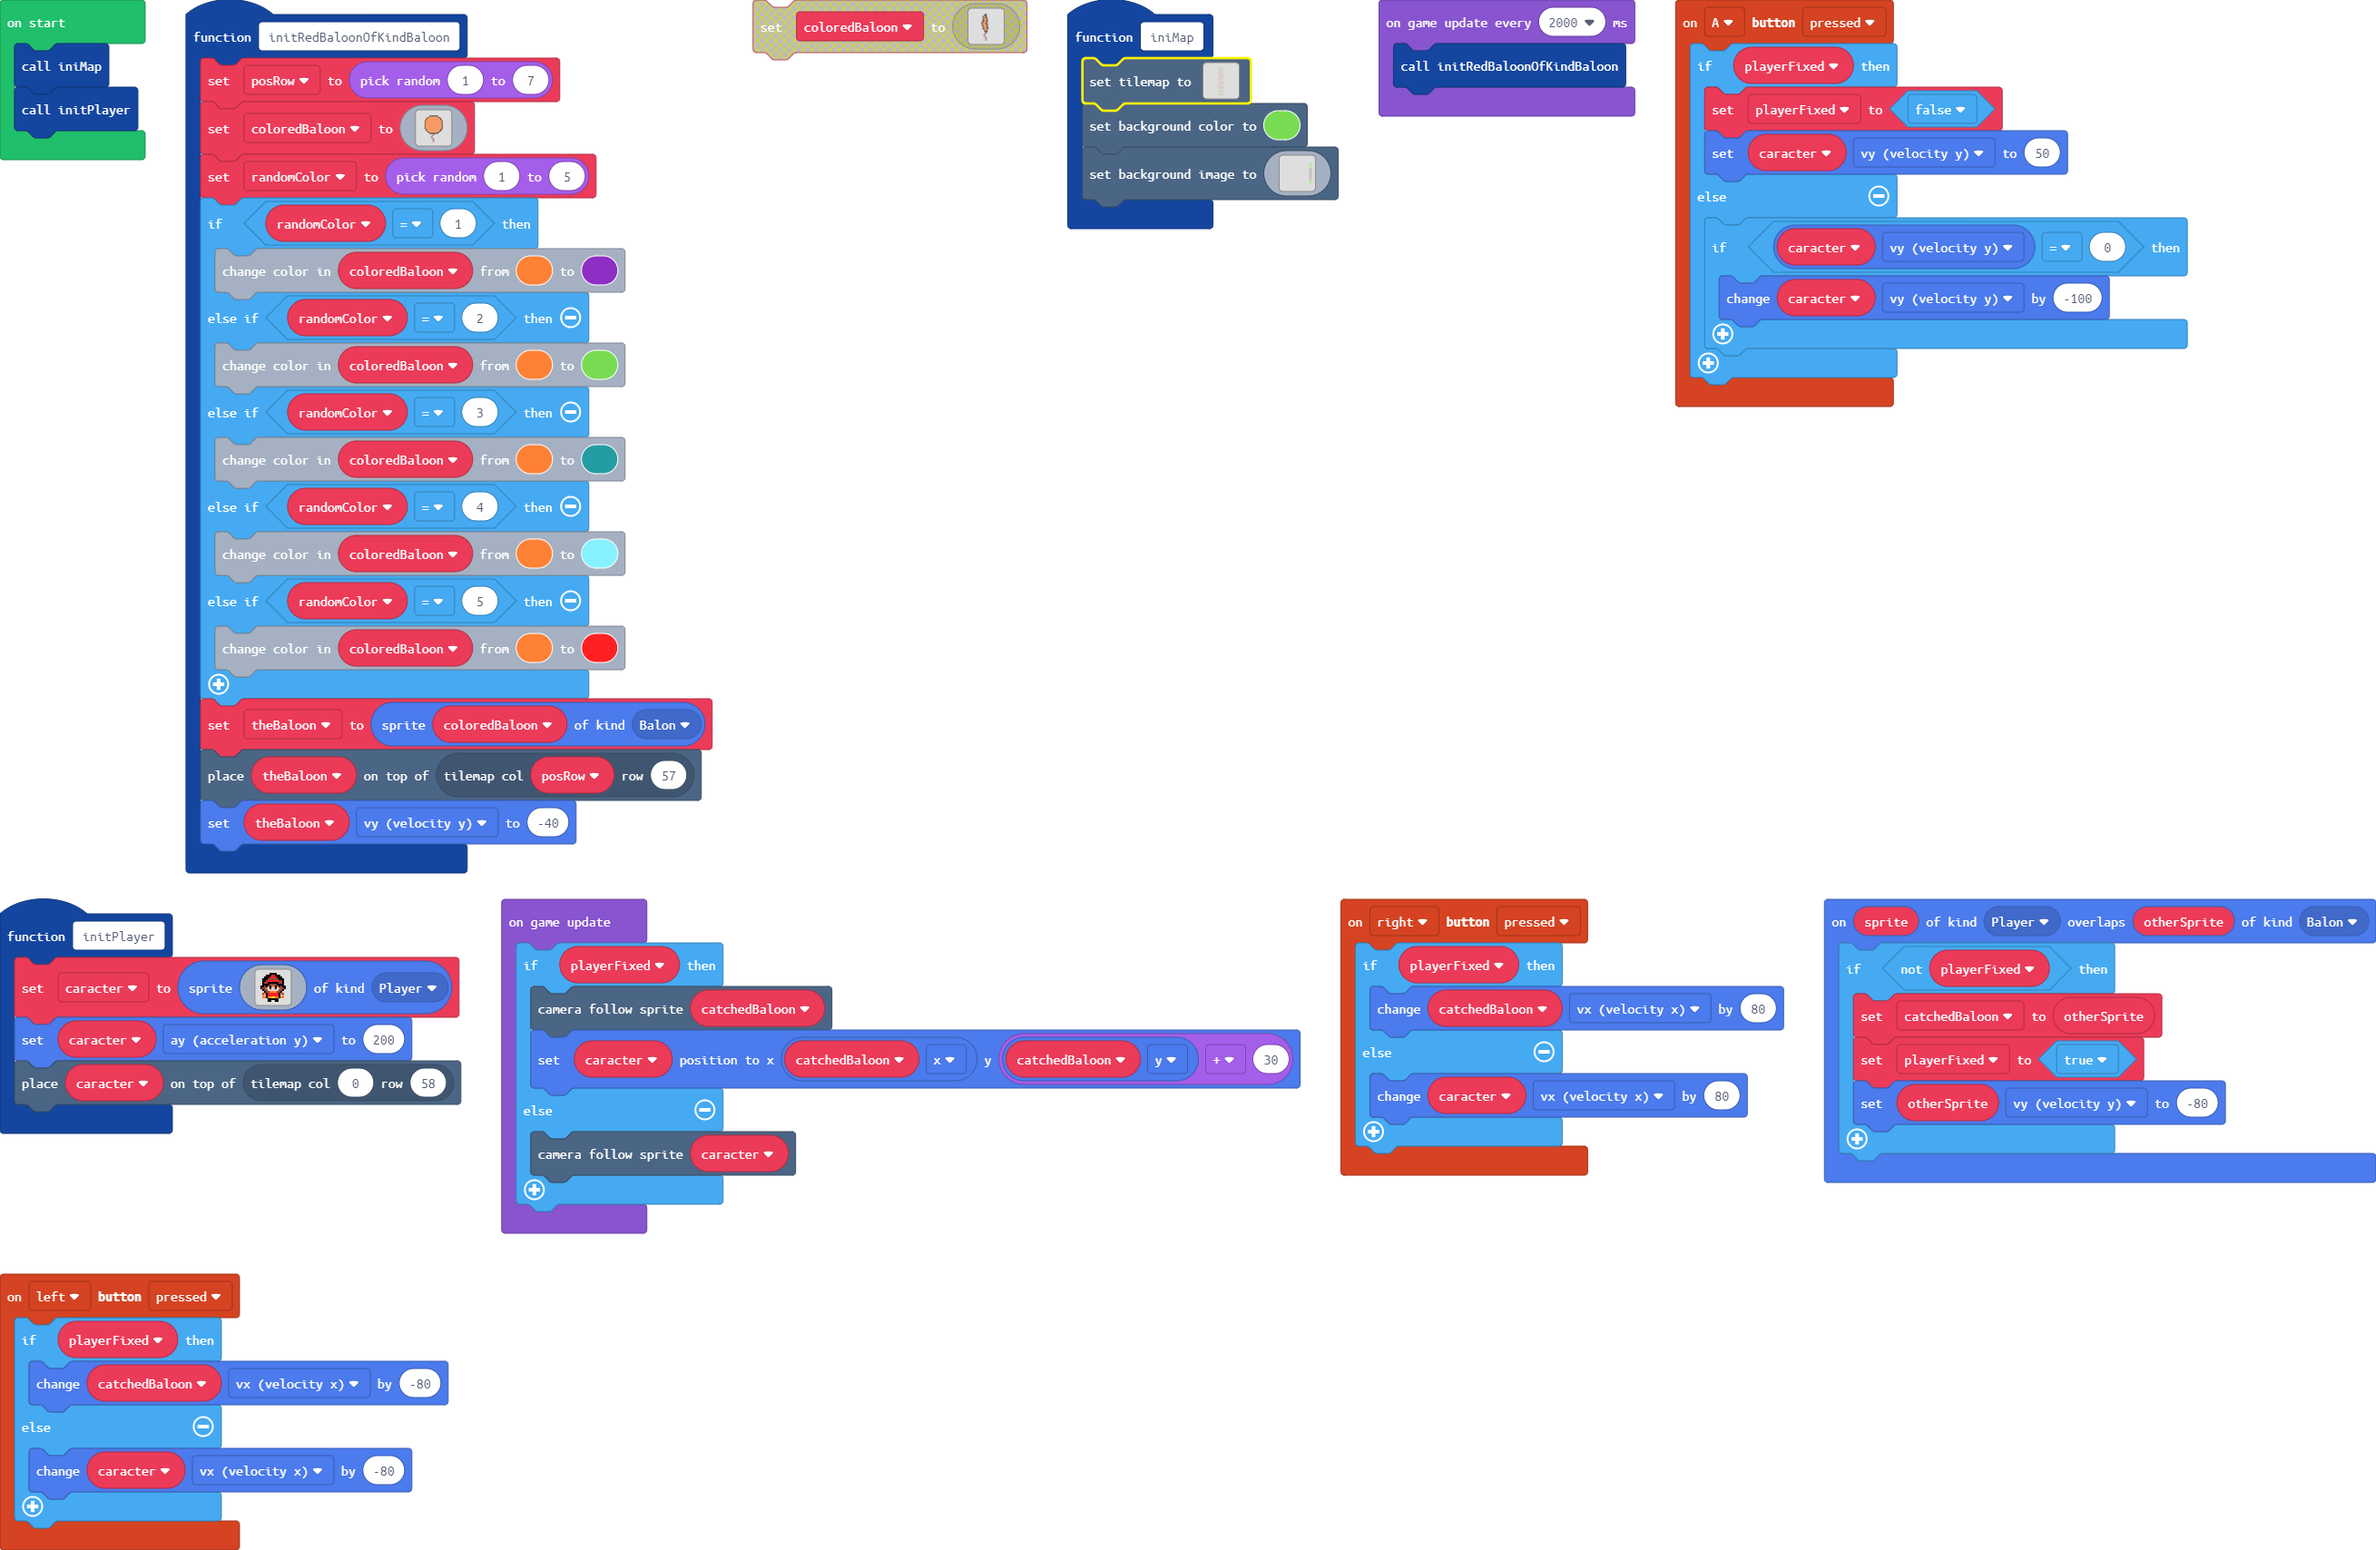
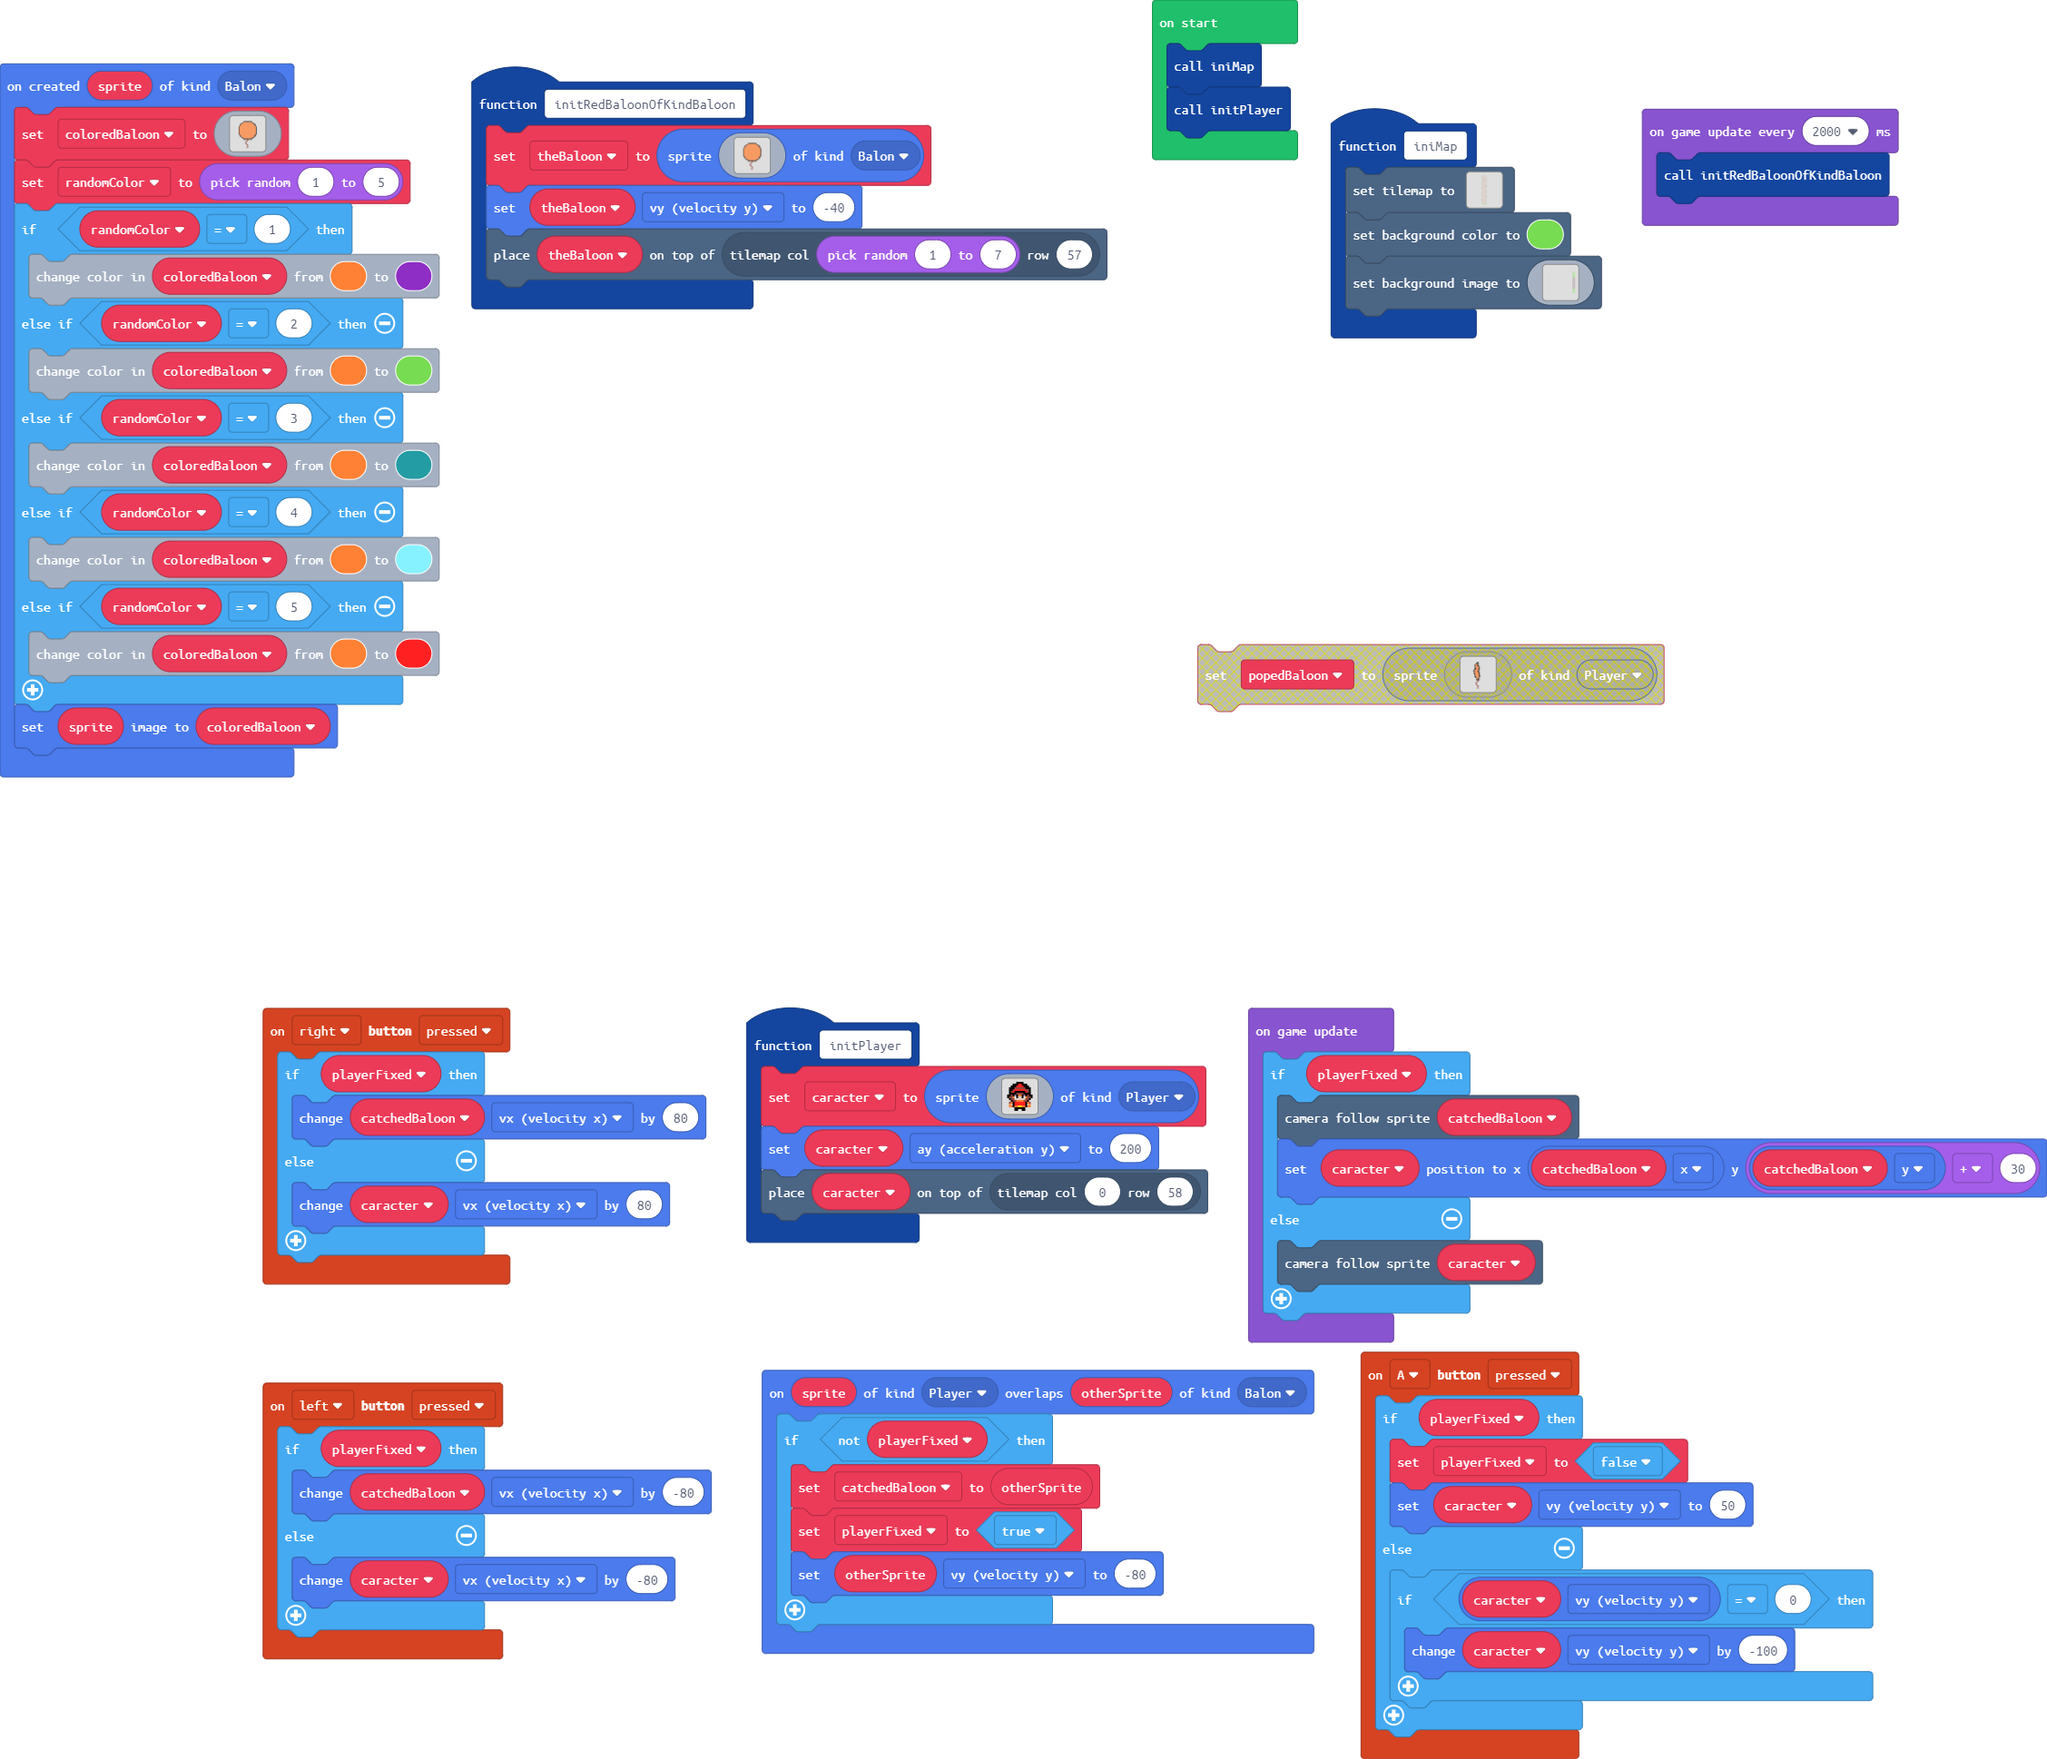
simplified code

diff --git a/main.ts b/main.ts
@@ -24,8 +24,7 @@ namespace myTiles {
 `
 }
 function initRedBaloonOfKindBaloon () {
-    posRow = Math.randomRange(1, 7)
-    coloredBaloon = img`
+    theBaloon = sprites.create(img`
 . . . . . . . . . . . . . . . . . . . . . . . . . 
 . . . . . . . . . . . . . . . . . . . . . . . . . 
 . . . . . . . . . . . . . . . . . . . . . . . . . 
@@ -66,22 +65,9 @@ f 4 4 4 4 4 4 4 4 4 4 4 4 4 4 4 4 4 4 4 4 4 4 4 f
 . . . . . . . . . . . . e . . . . . . . . . . . . 
 . . . . . . . . . . . e . . . . . . . . . . . . . 
 . . . . . . . . . . . . e . . . . . . . . . . . . 
-`
-    randomColor = Math.randomRange(1, 5)
-    if (randomColor == 1) {
-        coloredBaloon.replace(4, 10)
-    } else if (randomColor == 2) {
-        coloredBaloon.replace(4, 7)
-    } else if (randomColor == 3) {
-        coloredBaloon.replace(4, 6)
-    } else if (randomColor == 4) {
-        coloredBaloon.replace(4, 9)
-    } else if (randomColor == 5) {
-        coloredBaloon.replace(4, 2)
-    }
-    theBaloon = sprites.create(coloredBaloon, SpriteKind.Balon)
-    tiles.placeOnTile(theBaloon, tiles.getTileLocation(posRow, 57))
+`, SpriteKind.Balon)
     theBaloon.vy = -40
+    tiles.placeOnTile(theBaloon, tiles.getTileLocation(Math.randomRange(1, 7), 57))
 }
 function iniMap () {
     tiles.setTilemap(tiles.createTilemap(
@@ -314,6 +300,63 @@ controller.A.onEvent(ControllerButtonEvent.Pressed, function () {
         }
     }
 })
+sprites.onCreated(SpriteKind.Balon, function (sprite) {
+    coloredBaloon = img`
+. . . . . . . . . . . . . . . . . . . . . . . . . 
+. . . . . . . . . . . . . . . . . . . . . . . . . 
+. . . . . . . . . . . . . . . . . . . . . . . . . 
+. . . . . . . f f f f f f f f f f f . . . . . . . 
+. . . . . . f 4 4 4 4 4 4 4 4 4 4 4 f . . . . . . 
+. . . . f f 4 4 4 4 4 4 4 4 4 4 4 4 4 f f . . . . 
+. . . f 4 4 4 4 4 4 4 4 4 4 4 4 4 4 4 4 4 f . . . 
+. . f 4 4 4 4 4 4 4 4 4 4 4 4 4 4 4 4 4 4 4 f . . 
+. . f 4 4 4 4 4 4 4 4 4 4 4 4 4 4 4 4 4 4 4 f . . 
+. f 4 4 4 4 4 4 4 4 4 4 4 4 4 4 4 4 4 4 4 4 4 f . 
+f 4 4 4 4 4 4 4 4 4 4 4 4 4 4 4 4 4 4 4 4 4 4 4 f 
+f 4 4 4 4 4 4 4 4 4 4 4 4 4 4 4 4 4 4 4 4 4 4 4 f 
+f 4 4 4 4 4 4 4 4 4 4 4 4 4 4 4 4 4 4 4 4 4 4 4 f 
+f 4 4 4 4 4 4 4 4 4 4 4 4 4 4 4 4 4 4 4 4 4 4 4 f 
+f 4 4 4 4 4 4 4 4 4 4 4 4 4 4 4 4 4 4 4 4 4 4 4 f 
+f 4 4 4 4 4 4 4 4 4 4 4 4 4 4 4 4 4 4 4 4 4 4 4 f 
+f 4 4 4 4 4 4 4 4 4 4 4 4 4 4 4 4 4 4 4 4 4 4 4 f 
+f 4 4 4 4 4 4 4 4 4 4 4 4 4 4 4 4 4 4 4 4 4 4 4 f 
+f 4 4 4 4 4 4 4 4 4 4 4 4 4 4 4 4 4 4 4 4 4 4 4 f 
+f 4 4 4 4 4 4 4 4 4 4 4 4 4 4 4 4 4 4 4 4 4 4 4 f 
+f 4 4 4 4 4 4 4 4 4 4 4 4 4 4 4 4 4 4 4 4 4 4 4 f 
+. f 4 4 4 4 4 4 4 4 4 4 4 4 4 4 4 4 4 4 4 4 4 f . 
+. . f 4 4 4 4 4 4 4 4 4 4 4 4 4 4 4 4 4 4 4 f . . 
+. . f 4 4 4 4 4 4 4 4 4 4 4 4 4 4 4 4 4 4 4 f . . 
+. . . f 4 4 4 4 4 4 4 4 4 4 4 4 4 4 4 4 4 f . . . 
+. . . . f f 4 4 4 4 4 4 4 4 4 4 4 4 4 f f . . . . 
+. . . . . . f 4 4 4 4 4 4 4 4 4 4 4 f . . . . . . 
+. . . . . . . f f f f f f f f f f f . . . . . . . 
+. . . . . . . . . . . . e . . . . . . . . . . . . 
+. . . . . . . . . . . e e . . . . . . . . . . . . 
+. . . . . . . . . . e e . . . . . . . . . . . . . 
+. . . . . . . . . e e . . . . . . . . . . . . . . 
+. . . . . . . . . e . . . . . . . . . . . . . . . 
+. . . . . . . . . e e . . . . . . . . . . . . . . 
+. . . . . . . . . . e e . . . . . . . . . . . . . 
+. . . . . . . . . . . e e . . . . . . . . . . . . 
+. . . . . . . . . . . . e . . . . . . . . . . . . 
+. . . . . . . . . . . . e . . . . . . . . . . . . 
+. . . . . . . . . . . e . . . . . . . . . . . . . 
+. . . . . . . . . . . . e . . . . . . . . . . . . 
+`
+    randomColor = Math.randomRange(1, 5)
+    if (randomColor == 1) {
+        coloredBaloon.replace(4, 10)
+    } else if (randomColor == 2) {
+        coloredBaloon.replace(4, 7)
+    } else if (randomColor == 3) {
+        coloredBaloon.replace(4, 6)
+    } else if (randomColor == 4) {
+        coloredBaloon.replace(4, 9)
+    } else if (randomColor == 5) {
+        coloredBaloon.replace(4, 2)
+    }
+    sprite.setImage(coloredBaloon)
+})
 controller.right.onEvent(ControllerButtonEvent.Pressed, function () {
     if (playerFixed) {
         catchedBaloon.vx += 80
@@ -328,13 +371,12 @@ sprites.onOverlap(SpriteKind.Player, SpriteKind.Balon, function (sprite, otherSp
         otherSprite.vy = -80
     }
 })
+let randomColor = 0
+let coloredBaloon: Image = null
 let caracter: Sprite = null
 let catchedBaloon: Sprite = null
 let playerFixed = false
 let theBaloon: Sprite = null
-let randomColor = 0
-let coloredBaloon: Image = null
-let posRow = 0
 iniMap()
 initPlayer()
 game.onUpdateInterval(2000, function () {
